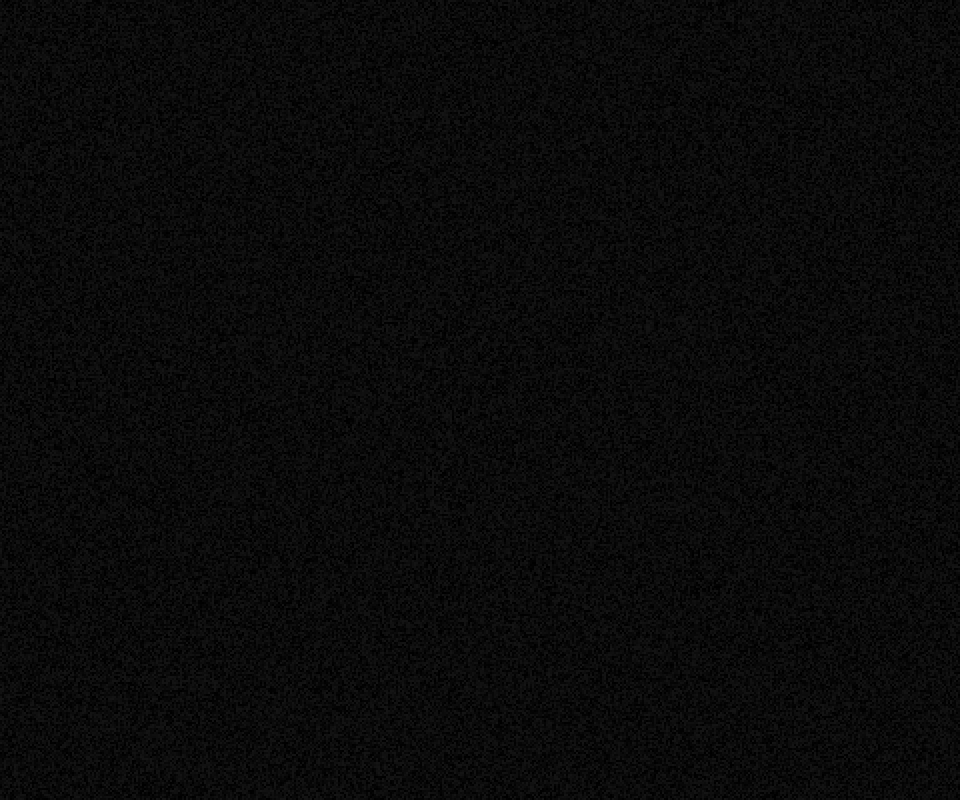
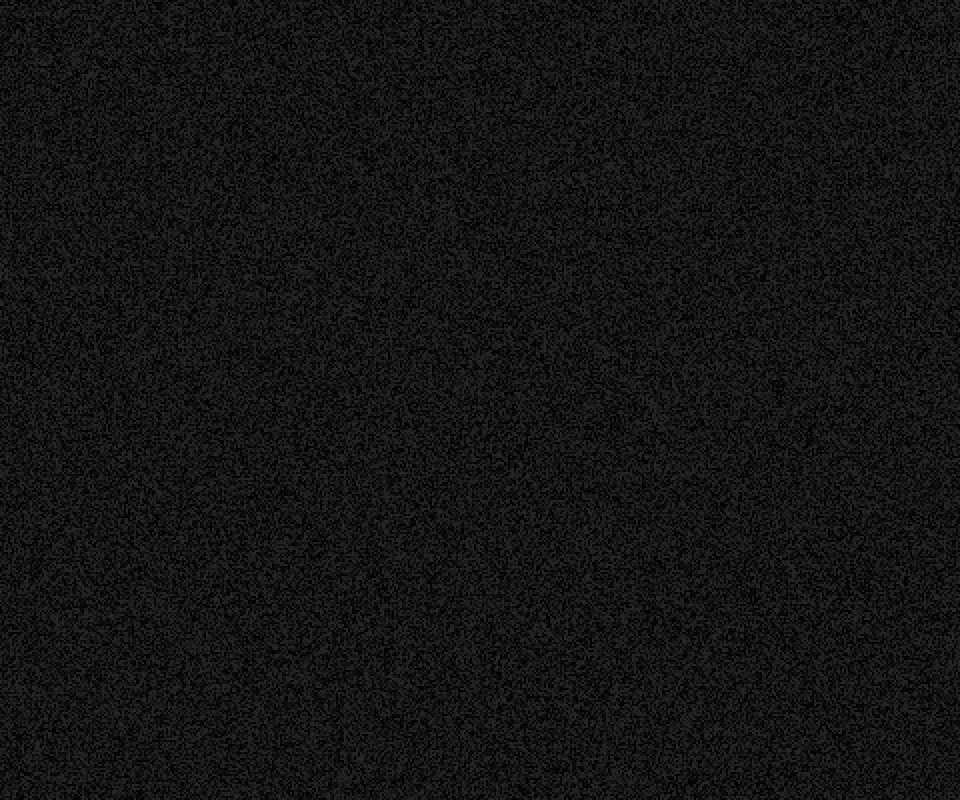
changing nosie BG

Changed region(s): [[0.0, 0.0, 1.0, 1.0]]

diff --git a/src/main.js b/src/main.js
@@ -58,7 +58,7 @@ let graderMode = false;
 // background function used for every scene
 function setBG(scene) {
     scene.cameras.main.setBackgroundColor(blackHex);
-    scene.bgImage = scene.add.image(0, 0, "noiseBG").setOrigin(0).setAlpha(0.5);
+    scene.bgImage = scene.add.image(0, 0, "noiseBG").setOrigin(0).setAlpha(0.6);
     scene.time.addEvent({
         delay: 700,
         callback: () => {

diff --git a/src/scenes/Lock.js b/src/scenes/Lock.js
@@ -53,7 +53,6 @@ class Lock extends Phaser.Scene {
         this.num3 = this.add.image(496, 380, `button${this.spot3}`).setOrigin(0);
         this.num4 = this.add.image(560, 380, `button${this.spot4}`).setOrigin(0);
 
-
         // arrow buttons
         this.oneUp = this.add.image(368, 336, "arrowUp").setOrigin(0).setInteractive({
             hitArea: new Phaser.Geom.Rectangle(0, 14, 32, 18),

diff --git a/index.html b/index.html
@@ -5,7 +5,6 @@
     <meta name="viewport" content="width=device-width, initial-scale=1.0">
     <title>...</title>
     <script src="./lib/phaser.js"></script>
-    <script src="./lib/StateMachine.js"></script>
     <script src="./src/scenes/Load.js"></script>
     <script src="./src/scenes/Menu.js"></script>
     <script src="./src/scenes/DisplayImage.js"></script>
